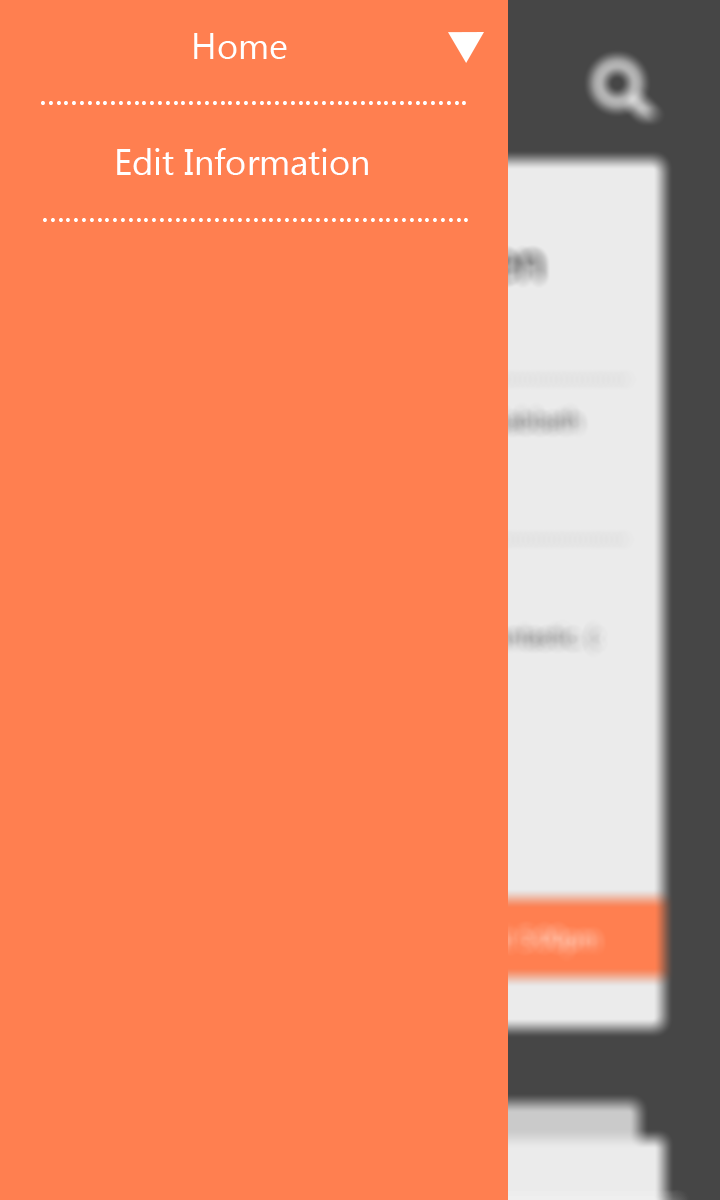
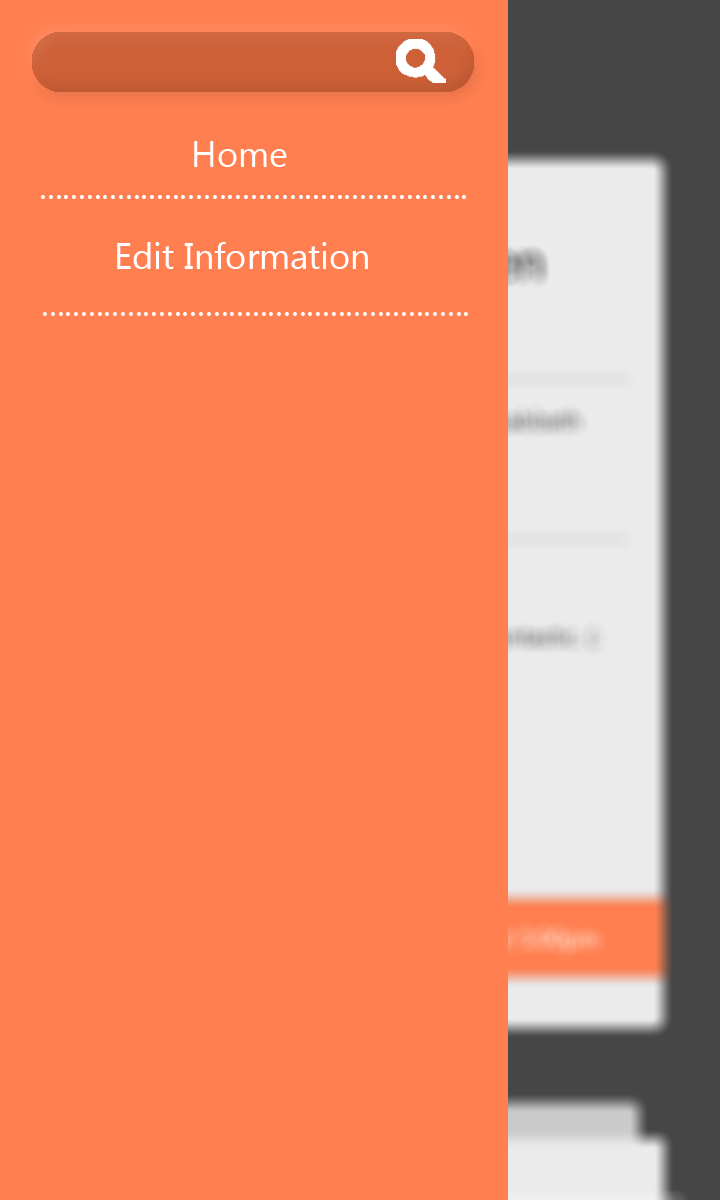
Added link to new Anchor mockups from my site

diff --git a/index.html b/index.html
@@ -37,14 +37,14 @@
         
 <ul>I've interned at <a href="http://triplingo.com/">TripLingo</a> as a software developer and am using JavaScript and Appcelerator Titanium to reimagine their translation app for use in a medical translation context.</ul>
 
-<ul>I've worked alongside <a href="http://michaeltavani.com/">Michael Tavani</a>, CEO of Scoutmob, and <a href="http://blog.sourcebender.com/">Calvin Yu</a>, CTO of Scoutmob, to write an iPhone app for keeping track of conversations with acquaintances and business connections.</ul>
+<ul>I've worked alongside <a href="http://michaeltavani.com/">Michael Tavani</a>, CEO of Scoutmob, and <a href="http://blog.sourcebender.com/">Calvin Yu</a>, CTO of Scoutmob, to write an iPhone app called <a href="http://loganallen.co/anchor/">Anchor</a> for keeping track of conversations with acquaintances and business connections.</ul>
 
 <h3 style="margin-top:5%;">2013</h3>
 
 <ul>I worked alongside <a href="http://rushir.co">Rushir Parikh</a> to found Clerk, a news app that allowed users to give back to authors through microdonations. Our startup was mentored and advised by <a href="http://finette.com/">Pascal Finette</a>, the past Chair of the Board of Mozilla, and <a href="https://twitter.com/charlieharding">Charlie Harding</a>, a program manager at Google.</ul>
 
 <ul>I developed software for <a href="http://bestfitmobile.com/">BestFit Mobile</a> as an independent contractor, acting as the lead front-end developer on a contract with <a href="http://www.fmcna.com/fmcna/index.htm">Fresenius Medical Care</a>, a dialysis company with 55,000 employees.</ul>
-<ul>I wrote a conference room booking app called <a href="https://github.com/loganallenc/confluent">Confluence</a> for internal use at BestFit that utilized OAuth 2.0 and Google Calendar.</ul>
+<ul>I wrote a conference room booking app called <a href="https://github.com/loganallenc/confluent">Confluent</a> for internal use at BestFit that utilized OAuth 2.0 and Google Calendar.</ul>
 
     </div>
 </div>

diff --git a/anchor/app.js b/anchor/app.js
@@ -1,9 +1,11 @@
 for (var layerGroupName in PSD) {
     window[layerGroupName] = PSD[layerGroupName];
+    console.log(layerGroupName);
 }
 
 for (var layerGroupName in PSD) {
  PSD[layerGroupName].originalFrame = window[layerGroupName].frame;
+ console.log(layerGroupName);
 }
 
 /*Splash.placeBefore(Home);
@@ -18,24 +20,34 @@ var fade = new Animation({
 fade.on("end", showHome());
 fade.start();*/
 
-function showHome() {
-    Home.placeBefore(Splash);
-}
 
-showHome();
+Splash.on("click", function(event) {      
+    Home.placeBefore(Splash);
+});
 
 Home.on("click", function(event) {
-    console.log(event);
     if (event.x < 510 && event.y < 100) {         
         Menu.placeBefore(Home);
+    } else if (event.x > 300  && event.y > 400) {
+        Calendar.placeBefore(Home);
+    }
+});
+
+Calendar.on("click", function(event) {
+    if (event.x < 510 && event.y < 100) {         
+        Menu.placeBefore(Calendar);
+    } else if (event.x > 300  && event.y > 400) {
+        Home.placeBefore(Calendar);
     }
 });
 
 Menu.on("click", function(event) {
-    if (event.x < 510 && event.y > 100 && event.y < 200) {
-        Edit.placeBefore(Menu);
-    } else if ((event.x < 510 && event.y < 100) || (event.x > 510)) {
+    if ((event.x < 510 && event.y > 100 && event.y < 200) || (event.x > 510)) {
         Home.placeBefore(Menu);
+    } else if (event.x < 510 && event.y < 100) {
+        //Search.placeBefore(Menu);
+    } else if (event.x < 510 && event.y > 200 && event.y < 300) {
+        Edit.placeBefore(Menu);
     }
 });
 

diff --git a/anchor/framer/views.Anchor.js b/anchor/framer/views.Anchor.js
@@ -14,16 +14,16 @@
 			"path": "images/Edit.png",
 			"frame": {
 				"x": 0,
-				"y": 1,
-				"width": 706,
-				"height": 1199
+				"y": 0,
+				"width": 720,
+				"height": 1200
 			}
 		},
 		"imageType": "png",
 		"children": [
 			
 		],
-		"modification": "1086504836"
+		"modification": "19690882"
 	},
 	{
 		"id": 49,
@@ -48,7 +48,32 @@
 		"children": [
 			
 		],
-		"modification": "978765894"
+		"modification": "1396633945"
+	},
+	{
+		"id": 190,
+		"name": "Calendar",
+		"layerFrame": {
+			"x": 0,
+			"y": 0,
+			"width": 720,
+			"height": 1200
+		},
+		"maskFrame": null,
+		"image": {
+			"path": "images/Calendar.png",
+			"frame": {
+				"x": 0,
+				"y": 0,
+				"width": 720,
+				"height": 1200
+			}
+		},
+		"imageType": "png",
+		"children": [
+			
+		],
+		"modification": "1293646038"
 	},
 	{
 		"id": 45,
@@ -73,7 +98,7 @@
 		"children": [
 			
 		],
-		"modification": "806145411"
+		"modification": "2006725054"
 	},
 	{
 		"id": 85,
@@ -90,7 +115,7 @@
 			"frame": {
 				"x": 0,
 				"y": 0,
-				"width": 719,
+				"width": 720,
 				"height": 1200
 			}
 		},
@@ -98,6 +123,6 @@
 		"children": [
 			
 		],
-		"modification": "560653912"
+		"modification": "1259384256"
 	}
 ]

diff --git a/anchor/index.html b/anchor/index.html
@@ -41,7 +41,7 @@
 		
 	</head>
 	<body>
-		<script src="framer/views.multipleviews.js"></script>
+		<script src="framer/views.Anchor.js"></script>
 		<script src="framer/framer.js"></script>
 		<script src="framer/framerps.js"></script>
 		<script src="app.js"></script>
